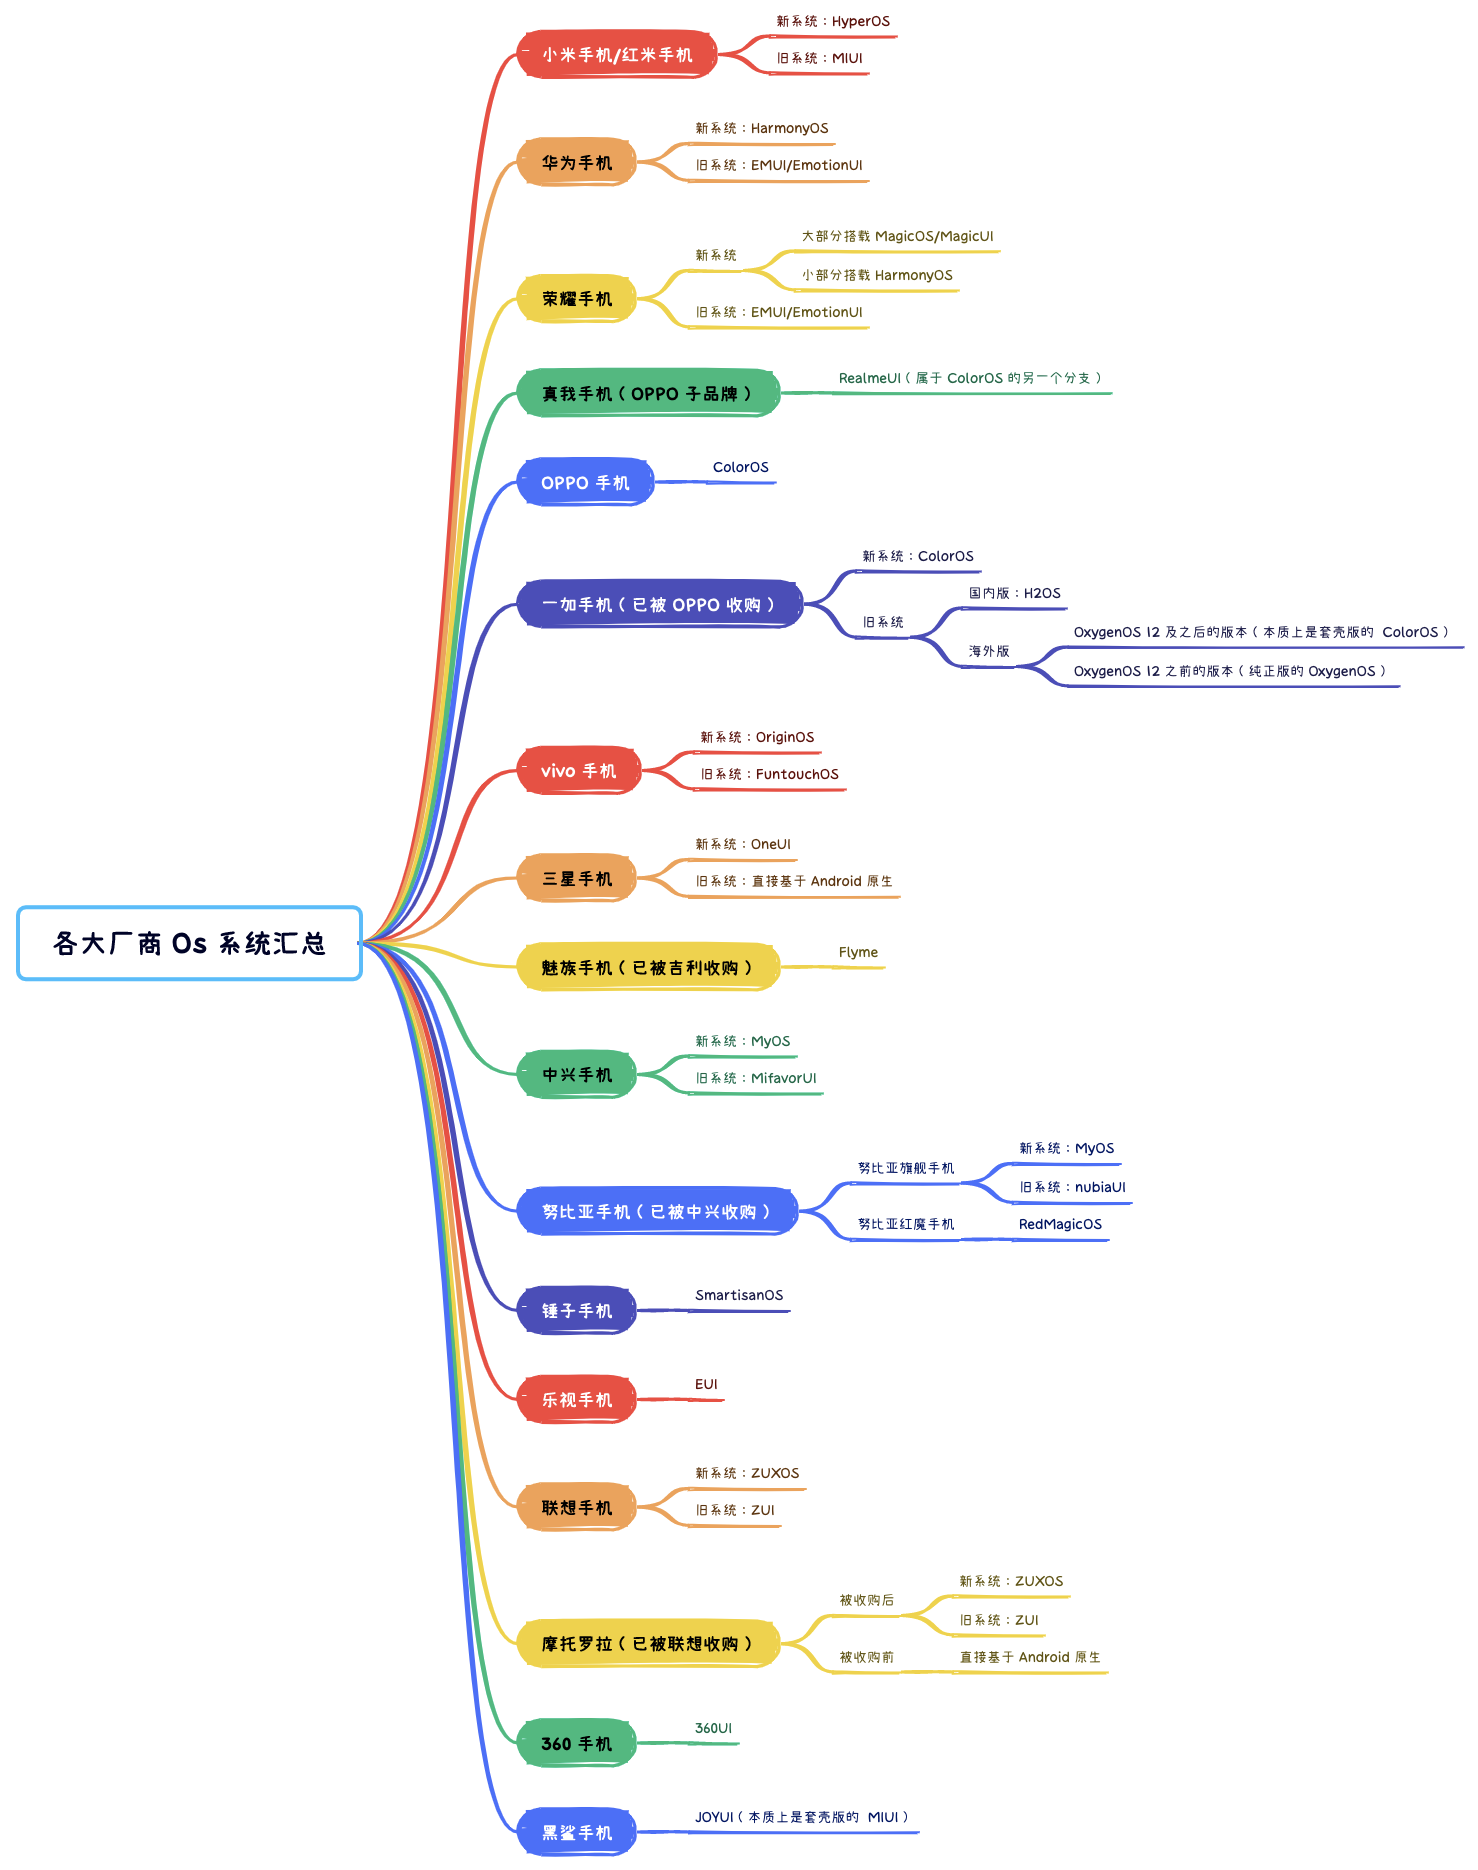
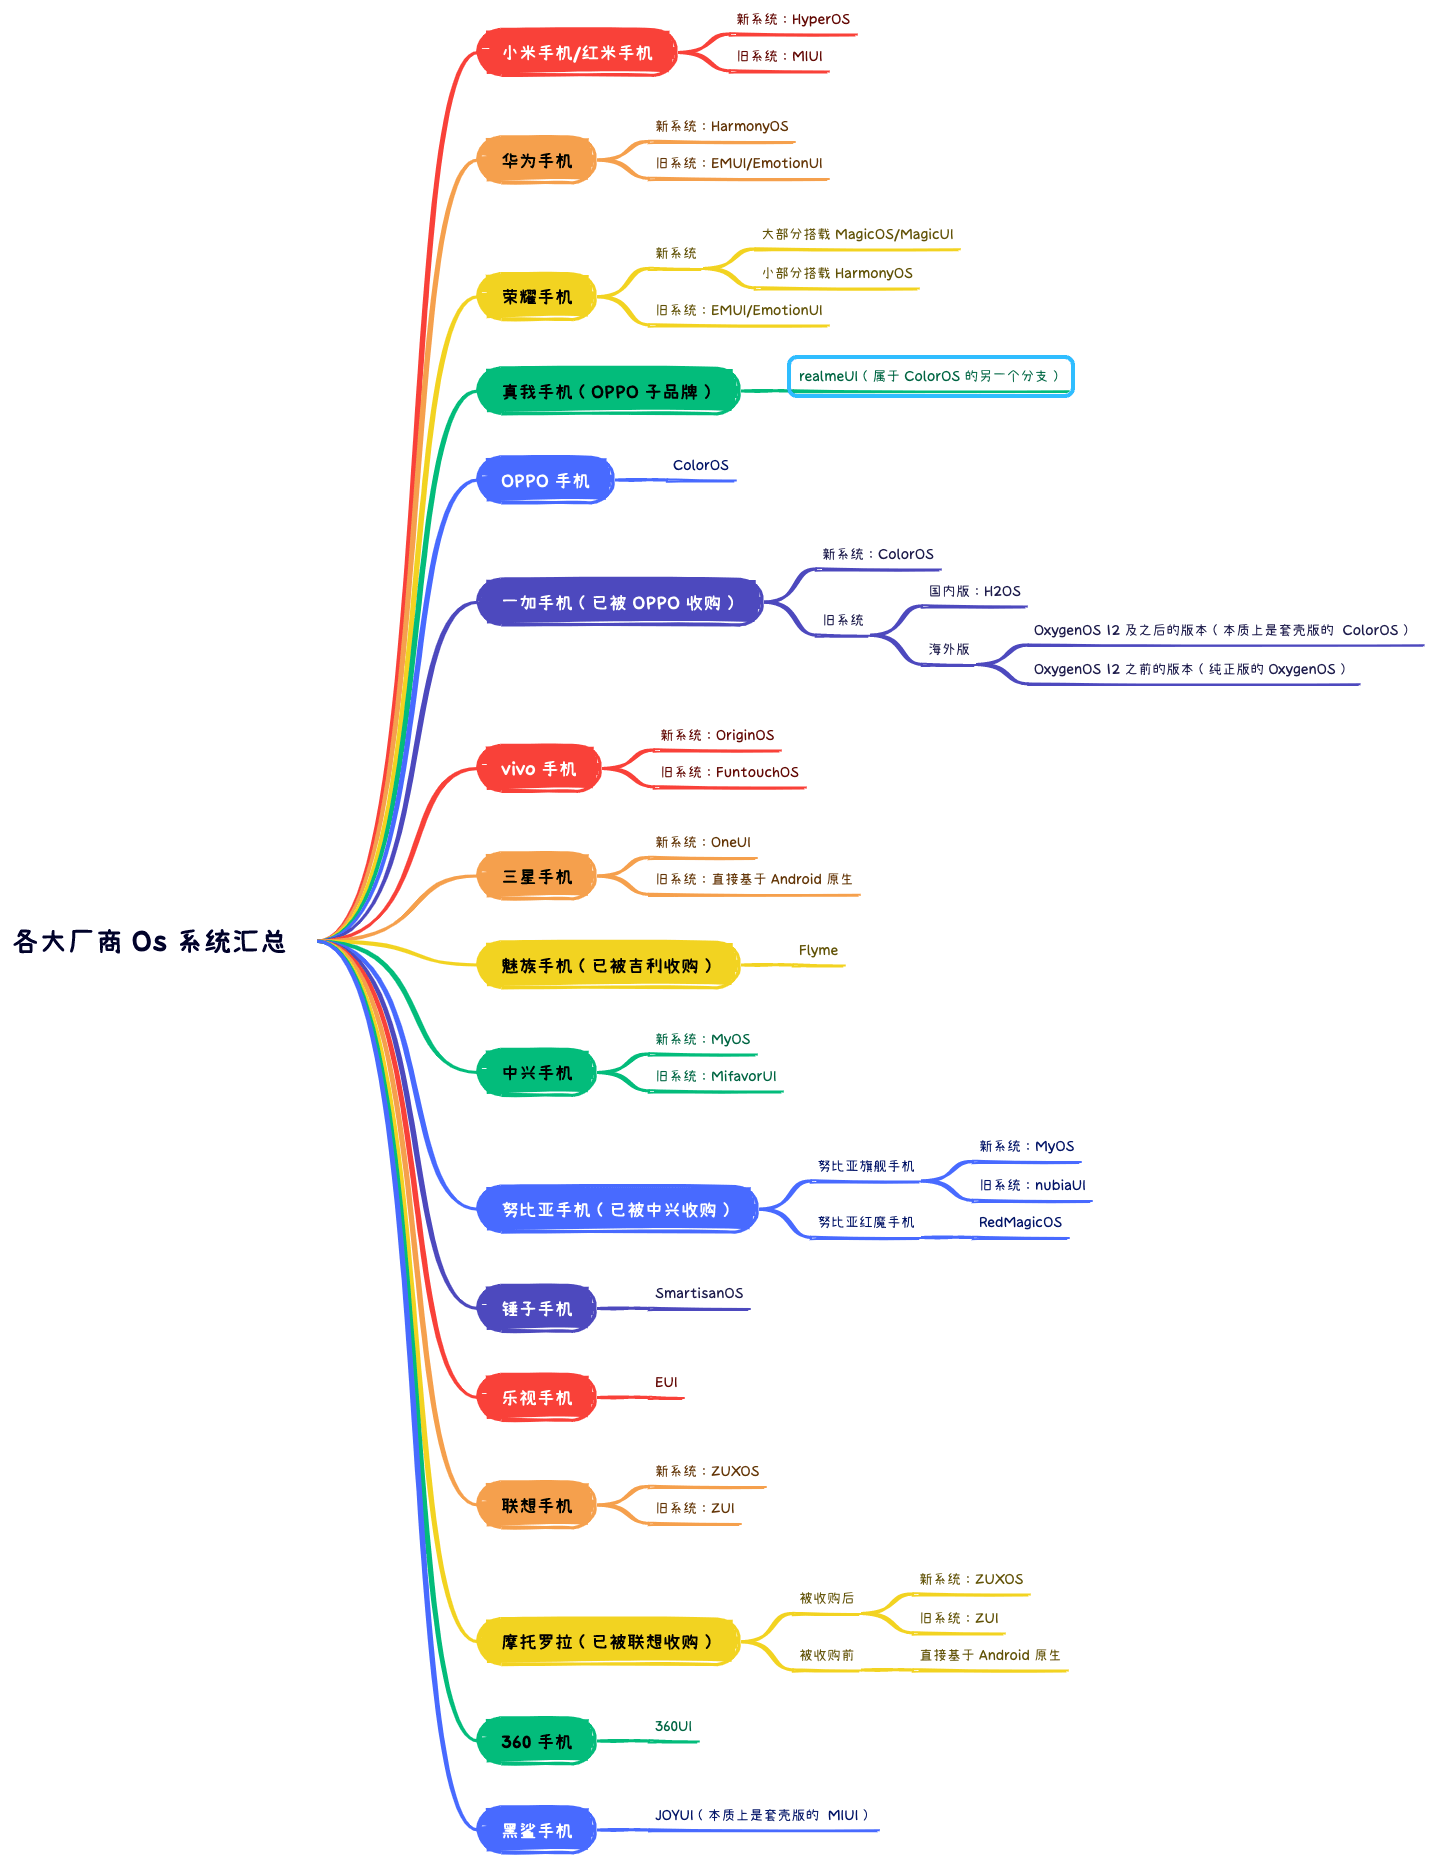
优化真我手机 Os 代码注释上面的名称

Changed region(s): [[0.0, 0.0, 0.9661, 0.9968]]

diff --git a/library/src/main/java/com/hjq/device/compat/DeviceOs.java b/library/src/main/java/com/hjq/device/compat/DeviceOs.java
@@ -401,7 +401,7 @@ public final class DeviceOs {
 
         if (sCurrentOsName == null) {
             String realmeUiVersion = SystemPropertyCompat.getSystemPropertyValue(OS_VERSION_NAME_REALME_UI);
-            // RealmeUI 一定要放在 ColorOS 之前判断，因为 RealmeUI 是 ColorOS 的另外一个分支
+            // realmeUI 一定要放在 ColorOS 之前判断，因为 realmeUI 是 ColorOS 的另外一个分支
             if (!TextUtils.isEmpty(realmeUiVersion)) {
                 sCurrentOsName = OS_NAME_REALME_UI;
                 sCurrentOriginalOsVersionName = realmeUiVersion;
@@ -737,7 +737,7 @@ public final class DeviceOs {
     }
 
     /**
-     * 判断当前是否为 RealmeUI（真我手机的系统）
+     * 判断当前是否为 realmeUI（真我手机的系统）
      */
     public static boolean isRealmeUi() {
         return TextUtils.equals(sCurrentOsName, OS_NAME_REALME_UI);

diff --git a/README.md b/README.md
@@ -88,7 +88,7 @@ DeviceOs.isMiuiByGlobal();
 // 判断当前设备的厂商系统是否开启了 MIUI 优化选项
 DeviceOs.isMiuiOptimization();
 
-// 判断当前设备的厂商系统是否为 RealmeUI（真我手机的系统）
+// 判断当前设备的厂商系统是否为 realmeUI（真我手机的系统）
 DeviceOs.isRealmeUi();
 
 // 判断当前设备的厂商系统是否为 ColorOS（OPPO 手机、一加手机的系统）
